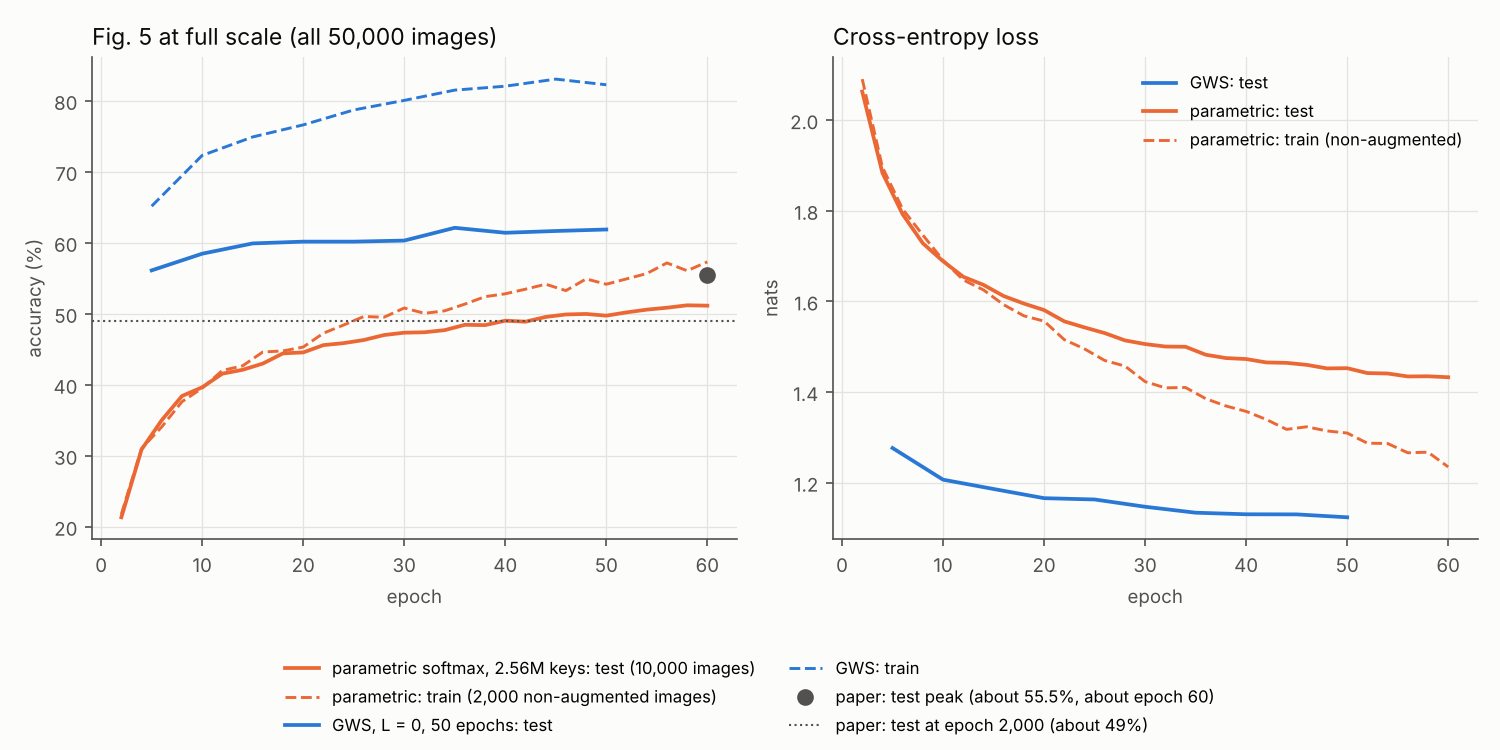
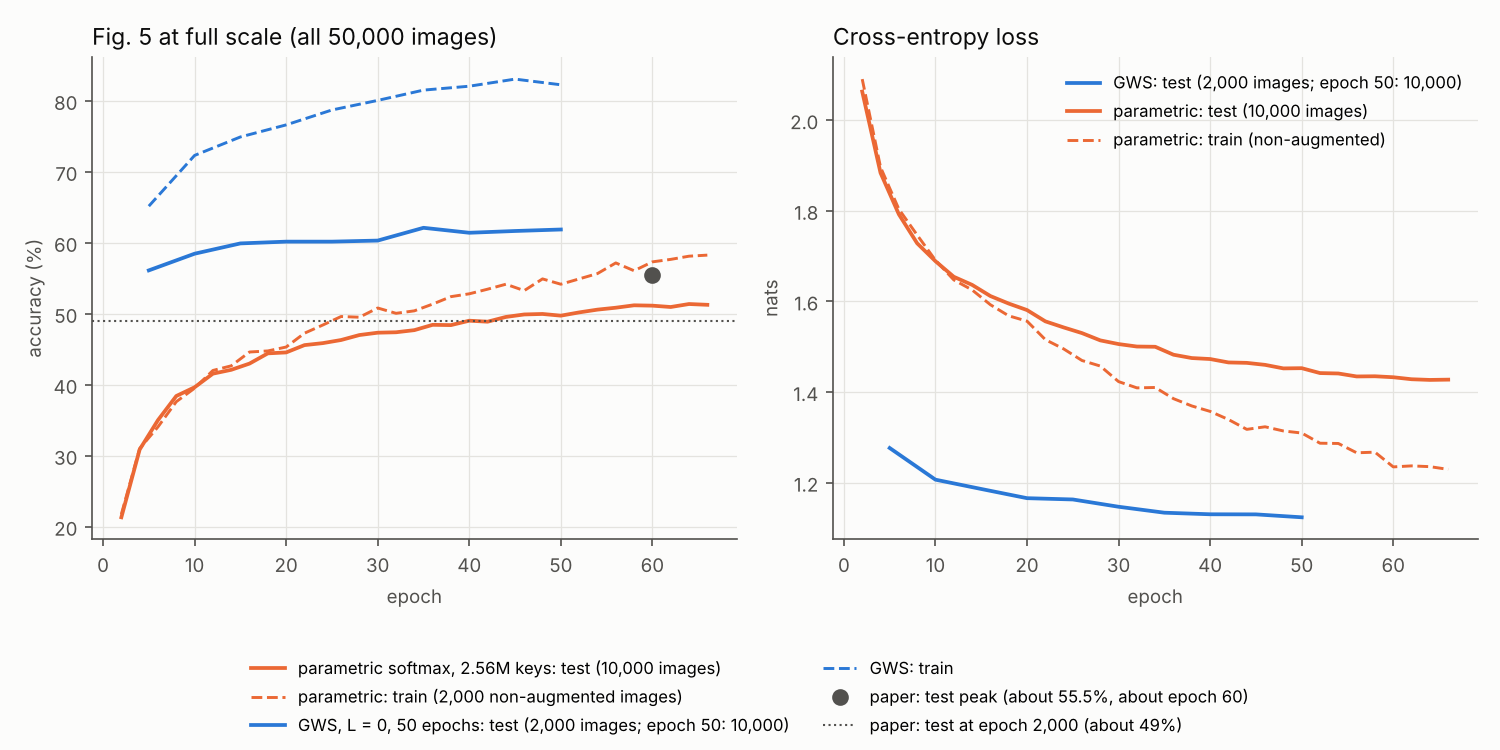
Report: apply verified fixes (evaluation sample, Muon parameter split, claim 15 with the 2.56M-key run, cost estimate with kernel padding and measured run times, rounding, labels)
Claude-Session: https://claude.ai/code/session_01RLNGfWX7myMbpBLDNmpMEp

diff --git a/experiments/plots.py b/experiments/plots.py
@@ -503,13 +503,14 @@ def fig_fig5_full(roots, out):
   if gws:   # two runs share this name (eta 1 and 0.003); section 7.2 reports the better one
     g = [e for e in max(gws, key=lambda g: g[-1]['test_acc']) if e['step'] > 0]
     xg = [e['step'] / spe for e in g]
-    axes[0].plot(xg, [100 * e['test_acc'] for e in g], '-', color=SERIES[0], linewidth=1.8, label='GWS, L = 0, 50 epochs: test')
+    axes[0].plot(xg, [100 * e['test_acc'] for e in g], '-', color=SERIES[0], linewidth=1.8, label='GWS, L = 0, 50 epochs: test (2,000 images; epoch 50: 10,000)')
     axes[0].plot(xg, [100 * e['train_acc'] for e in g], '--', color=SERIES[0], linewidth=1.4, label='GWS: train')
-    axes[1].plot(xg, [e['test_loss'] for e in g], '-', color=SERIES[0], linewidth=1.8, label='GWS: test')
+    axes[1].plot(xg, [e['test_loss'] for e in g], '-', color=SERIES[0], linewidth=1.8,
+                 label='GWS: test (2,000 images; epoch 50: 10,000)')
   axes[0].plot([60], [55.5], 'o', color=INK2, markersize=7, label='paper: test peak (about 55.5%, about epoch 60)')
   axes[0].axhline(49.0, color=INK2, linestyle=':', linewidth=1.0, label='paper: test at epoch 2,000 (about 49%)')
   style(axes[0], 'Fig. 5 at full scale (all 50,000 images)', 'epoch', 'accuracy (%)')
-  axes[1].plot(x, [e['test_loss'] for e in ev], '-', color=SERIES[1], linewidth=1.8, label='parametric: test')
+  axes[1].plot(x, [e['test_loss'] for e in ev], '-', color=SERIES[1], linewidth=1.8, label='parametric: test (10,000 images)')
   axes[1].plot(x, [e['train_loss'] for e in ev], '--', color=SERIES[1], linewidth=1.4, label='parametric: train (non-augmented)')
   style(axes[1], 'Cross-entropy loss', 'epoch', 'nats')
   axes[1].legend(fontsize=8, frameon=False)

diff --git a/rcdl/layers.py b/rcdl/layers.py
@@ -293,7 +293,8 @@ class RCDLLayer(nn.Module):
     weights = torch.zeros(n, 1, device=dev)
     if self.kind == 'parametric_softmax' and store == torch.bfloat16:
       # bf16 table (full-scale Fig. 5: 2.56M x 3072 keys), drawn in chunks straight into the device tensor so that no
-      # fp32 copy of the whole table is made; the trained parameters and their Adam moments are bf16 as well
+      # fp32 copy of the whole table is made; the trained parameters and Adam's first moment are bf16 as well (with
+      # optimizer 'adam' the second moment is fp32: rcdl/train.py AdamFP32SecondMoment)
       for i in range(0, n, 65536):
         keys[i:i + 65536] = (torch.randn(min(65536, n - i), d_in, generator=gen) / math.sqrt(d_in)).to(dev, store)
       values = (torch.randn(n, d_out, generator=gen) * 0.02).to(dev, store)

diff --git a/docs/REPRODUCTION.md b/docs/REPRODUCTION.md
@@ -10,7 +10,7 @@ Status: final. Numbers come from `results/` (not committed) and `experiments/sum
 
 ## 0. Claims and verdicts
 
-Budget: 12 GPU-hours on Colab (L4 and A100-40GB) plus a 4-core CPU; 11.87 hours were used, then 2.50 more A100-hours at the user's request to rerun work lost with the first A100 session (total 14.37). A third round, at the user's go-ahead to exceed the target, used 3.30 Colab G4 hours and a free marimo molab GPU for the claims still open (11, 15, 17, 18, 19), and 1.42 more G4 hours for a full-scale Fig. 5 attempt that stalled (§7.7). A fourth round on a free molab GPU (one 12-hour session) fixed and ran the full-scale Fig. 5 (§7.7) and ran the article's biography experiment on a small Gemma 3 style decoder (§7.5b, §7.5c); section 10 has the ledger. "Reproduced" means the same number within the stated spread, or the same qualitative result where the paper gives only a plot.
+Budget: 12 GPU-hours on Colab (L4 and A100-40GB) plus a 4-core CPU; 11.87 hours were used, then 2.50 more A100-hours at the user's request to rerun work lost with the first A100 session (total 14.37). A third round, at the user's go-ahead to exceed the target, used 3.30 Colab G4 hours and a free marimo molab GPU for the claims still open (11, 15, 17, 18, 19), and 1.42 more G4 hours for a full-scale Fig. 5 attempt that stalled (§7.7). A fourth round on free molab GPUs (a 9-minute session that molab ended, then one session of up to 12 hours) fixed the full-scale Fig. 5 and ran its first epochs (§7.7) and ran the article's biography experiment on a small Gemma 3 style decoder (§7.5b, §7.5c); section 10 has the ledger. "Reproduced" means the same number within the stated spread, or the same qualitative result where the paper gives only a plot.
 
 | # | Claim (source) | Verdict | Evidence |
 |---|---|---|---|
@@ -28,7 +28,7 @@ Budget: 12 GPU-hours on Colab (L4 and A100-40GB) plus a 4-core CPU; 11.87 hours 
 | 12 | Training loss falls much faster for GWS and RBF (Fig. 2 middle) | Reproduced for L = 2 (online loss 0.75 after 10 epochs; Muon 1.12, Adam 1.31) and in one pass (1.20 against Muon 1.26) | §7.4, figure |
 | 13 | Depth helps up to 2 hidden layers; temperature effect is non-monotonic (Fig. 4 left) | Reproduced. Depth: one pass 53.5 / 58.5 / 59.4, 10 epochs 58.6 / 63.8 / 65.1 for L = 0 / 1 / 2. Temperature (L = 0, 10 epochs): 53.5 / 58.6 / 51.3 for T = 3 / 10 / 30 | §5.1, §7.4 |
 | 14 | Linearizing exp after training causes a large drop (Fig. 4 right) | Reproduced: 61.9 → 15.9 (50 epochs, L = 0); 21-24% at every depth after 10 epochs | §7.2, §7.4 |
-| 15 | The parametric softmax overfits with a widening gap; GWS does not (Fig. 5) | Reproduced at 1/10 of the data with the paper's ratios (keys = GWS database size, 2,000 vs 50 epochs): the parametric model's test accuracy peaks at 43.3% (12.5% of training) and falls to 39.8% while its train accuracy rises to 93%; GWS ends at its best, 49.3%. Full scale, 50 epochs: GWS 61.9 vs 49.1. As in the paper's own figure, GWS also has a large final train-test gap; the claim holds in the sense that its test accuracy does not fall. Learned weights make the parametric model diverge (as the paper reports) | §7.7 |
+| 15 | The parametric softmax overfits with a widening gap; GWS does not (Fig. 5) | Reproduced at 1/10 of the data with the paper's ratios (keys = GWS database size, 2,000 vs 50 epochs): the parametric model's test accuracy peaks at 43.3% (12.5% of training) and falls to 39.8% while its train accuracy rises to 93%; GWS ends at its best, 49.3%. All 50,000 images with 250k keys (Adam 1e-3, below the paper's grid), 50 epochs: GWS 61.9 vs 49.1. The paper's full-scale model (2.56M keys, Adam 3e-3, one seed) reaches 51.1% test / 57.3% train at epoch 60 of 2,000 (§7.7; still running at the time of writing), below the paper's peak of about 55.5%, so overfitting at full scale is not yet shown. As in the paper's own figure, GWS also has a large final train-test gap; the claim holds in the sense that its test accuracy does not fall. Learned weights make the parametric model diverge (as the paper reports) | §7.7 |
 | 16 | ViT with GWS FFNs beats the parametric ViT after one epoch: 54.4 vs 48.4 (Sec. 5) | Reproduced: 55.24 at the first setting and 58.41 at the best of four (all four 52.5-58.4) vs 49.62 for the best standard ViT; needed an exact two-call FlashAttention form because PyTorch's fused attention backward slows 50 times at 2^21 keys | §5.3 |
 | 17 | The hybrid layer keeps accuracy with sublinear growth (Fig. 6) | Reproduced: capacities within 4 points of the paper at every τ; accuracy within 1.2 points for τ ≥ 50 with the notebook setting (two seeds at τ = 50: 56.2, 56.5). At τ = 35 the notebook setting fails (49.5, 44.3), but the paper's per-τ tuning grid (27 settings) gives 58.29% at 89.0% of the rows (three seeds of that setting: mean 58.27 ± 0.04; paper ~58.6% at ~88%) | §5.2 |
 | 18 | DeltaNet decay improves a 10-layer MLP over 2,000 epochs: 74% vs 67% (App. E.3.1) | Reproduced: λ = 1e-5 reaches 74.0% (final 73.7%) against 68.3% for plain SGD; all five decay rates of the paper's figure match it within about 1-2 points in test and train accuracy. Second seed: 73.7% against 67.5% | §7.8 |
@@ -54,7 +54,7 @@ Budget: 12 GPU-hours on Colab (L4 and A100-40GB) plus a 4-core CPU; 11.87 hours 
 | DeltaNet decay, 10-block MLP, 2,000 epochs, 5 decay rates at once | `python3 -m experiments.deltanet_long --out results/deltanet` | any GPU (3 GB) | about 2 h on an RTX PRO 6000 |
 | Fig. 5 at 1/10 scale; hybrid tuning at τ = 35 | `experiments/configs/overfit_fig5_scaled.json`, `hybrid_tau35_tuning.json` with `experiments.run` | 1 GPU (13-17 GB) | about 45 min per parametric run; 2-4 min per hybrid run |
 | All runs for the claims opened in the last round | `bash experiments/queue_open_claims.sh results/open data` | 1 GPU with 96 GB | about 4 h |
-| Synthetic biographies on the Gemma 3 style decoder (§7.5b) | `python3 -m experiments.bios experiments/configs/bios.json --only <name>` (`--set eval_seen_templates=true` adds the seen-template evaluation) | 1 GPU; growing-RBF runs need the Triton kernels | 10-20 min (GeGLU, Cos-Bochner) to 1.5-2 h (growing RBF, 2M rows) per run on an RTX PRO 6000 |
+| Synthetic biographies on the Gemma 3 style decoder (§7.5b) | `python3 -m experiments.bios experiments/configs/bios.json --only <name>` (`--set eval_seen_templates=true` adds the seen-template evaluation) | 1 GPU; growing-RBF runs need the Triton kernels | 10-20 min (GeGLU, Cos-Bochner) to 1-1.6 h (growing RBF, 2M rows, 6,000 pre-training steps; fine-tuning adds up to 0.2 h) per run on an RTX PRO 6000 shared with other jobs |
 | Fig. 5 at full scale (2.56M trained keys, bf16 table, fp32 Adam second moment, stochastic rounding) | `python3 -m experiments.run experiments/configs/overfit_fig5_fullscale.json --run-set eval_every=1562 eval_subset=10000 --set bf16_stochastic_rounding=true --tag sr` | 1 GPU with 96 GB (82 GB used) | 145 ms per step alone: 113 s per epoch |
 | Figures | `python3 -m experiments.plots` | any | seconds |
 
@@ -534,7 +534,7 @@ Findings:
 - The write-rate confound named in §7.5b does not explain the fast learning of new facts: with η scaled like the optimizer rate, the growing layer still reaches 96.6% at step 75 and 98.8% at step 100 (GeGLU: 99.8% at steps 500-525), and keeps the same share of old facts (89.0% against 88.8%). A likely reason is that every exposure of a new individual adds rows, so even small rows add up within a few exposures (about 6 by step 75); not tested.
 - The pre-training dips replicate (seed 2: 58.7% at step 1,100), and the seen-template and held-out accuracy differ by at most 5.2 points, so the growing layer's facts depend little on wording.
 
-**Muon** (Muon on every weight matrix except the tied embedding, AdamW 4e-4 on the embedding and the norm scales, the same cosine schedule; N = 8,192; one seed each; rates 1e-3 and 1e-2 chosen on the evaluation set; seen-template evaluation on):
+**Muon** (Muon on every weight matrix except the tied embedding, AdamW 4e-4 on the embedding, the norm scales and (Cos-Bochner) the phase offsets b; Ω, a matrix, is under Muon; the same cosine schedule; N = 8,192; one seed each; rates 1e-3 and 1e-2 chosen on the evaluation set; seen-template evaluation on):
 
 | FFN + optimizer | Plateau (reached → end) | 50% / 90% acc (step) | Final held-out / seen (%) | Training loss |
 |---|---|---|---|---|
@@ -554,7 +554,7 @@ Findings:
 - This bears on the article's claim that Cos-Bochner approaches the growing RBF layer: with Muon it does, at width 4,096 already.
 - Open: the growing layer with Muon on its other layers, and fine-tuning under Muon (runs G below). The Muon rate grid had two points and was chosen on the evaluation set; one seed each.
 
-**Fine-tuning under Muon** (runs G; pre-training as in the Muon 1e-2 runs above; fine-tuning on 1,024 new individuals for 1,000 steps, batch 16, no replay, every rate at 0.075 of its pre-training peak as in §7.5b: Muon 7.5e-4, AdamW 3e-5; N = 8,192; one seed each). Old facts are the 8,192 pre-training individuals (held-out frames); new facts are the 1,024 new individuals.
+**Fine-tuning under Muon** (runs G; pre-training as in the Muon 1e-2 runs above; fine-tuning on 1,024 new individuals for 1,000 steps, batch 16, no replay, every rate at 0.075 of its pre-training peak as in §7.5b: Muon 7.5e-4, AdamW 3e-5; N = 8,192; one seed each). Old facts are measured on 1,024 of the 8,192 pre-training individuals (the fixed random sample used throughout §7.5b, held-out frames); new facts on all 1,024 new individuals (held-out frames).
 
 | Run | Old facts at fine-tuning step 0 / 25 / 50 / 75 / 100 / 250 / 500 / 1,000 (%) | New facts at step 25 / 75 / 100 / 150 / 250 (%) |
 |---|---|---|
@@ -599,14 +599,14 @@ Findings:
 - GWS reaches higher test accuracy (48.8% against 40.8%), as in the paper, and the parametric baseline is "slower to fit the training data", as the paper says.
 - The paper's other statement does not hold here: GWS has by far the larger train-test gap (48 points against 7), and its gap widens. GWS memorizes the training set (97%) while its test accuracy keeps rising slowly. The parametric softmax shows only a small widening gap. At this scale, the difference between the two models is how fast they fit, not whether they overfit.
 - The instability of learned weights reproduces.
-- Full scale (all 50,000 images, 250,000 trained keys, plain softmax, Adam 1e-3, T = 1, 50 epochs, A100, 33 min):
+- All data, 250,000 trained keys (all 50,000 images, plain softmax, Adam 1e-3, T = 1, 50 epochs, A100, 33 min; test accuracy on the first 2,000 test images before epoch 50, all 10,000 at epoch 50):
 
 | Epoch | 5 | 10 | 20 | 30 | 40 | 50 |
 |---|---|---|---|---|---|---|
 | Parametric softmax: test / train acc (%) | 37.2 / 37.1 | 41.5 / 41.1 | 44.4 / 45.8 | 46.1 / 48.9 | 46.8 / 51.3 | **49.1 / 52.3** |
 | GWS, L = 0 (section 7.2): test / train acc (%) | 56.1 / 65.2 | 58.5 / 72.3 | 60.2 / 76.6 | 60.3 / 80.1 | 61.4 / 82.1 | **61.9 / 82.3** |
 
-  At 50 epochs the parametric model is still underfitting (train 52%) and its test accuracy is still rising; the gap is 3 points. The paper's widening gap appears after much longer training (2,000 epochs, 40 times this run, about 22 A100-hours at this table size). GWS is 12.8 points ahead on test accuracy and fits much faster, as claimed; its own gap (20 points) is larger, as is the gap in the paper's own figure (about 26 points).
+  At 50 epochs the parametric model is still underfitting (train 52%) and its test accuracy is still rising; the gap is 3 points. In the paper's figure the test accuracy peaks near epoch 60 (3% of training) at about 55.5%, so the paper's gap starts to widen soon after this run's last epoch. This run is about 6 points below the paper's curve at epoch 50 (49.1%), so it fits more slowly than the paper's model; the missing widening gap is not only a matter of run length. The 2,000 epochs at this table size would take about 22 A100-hours. GWS is 12.8 points ahead on test accuracy and fits much faster, as claimed; its own gap (20 points) is larger, as is the gap in the paper's own figure (about 26 points).
 
 **Fig. 5 with the paper's ratios at 1/10 of the data (third round, `overfit_fig5_scaled.json`).** The paper's full-scale parametric model (2.56M trained keys of width 3,072) needs about 126 GB for parameters, gradients and Adam state. This version keeps the paper's two ratios on the first 5,000 training images: the parametric softmax has as many trained keys as the GWS database holds after 50 epochs (249,664, about 50 per image, as in the paper), and it trains for 2,000 epochs against 50 for GWS. Plain softmax (fixed equal weights), T = 1, Adam 3e-3 and 1e-2 (the two lowest rates of the paper's grid), batch 64, augmentation. Train accuracy on 2,000 non-augmented training images, test accuracy on 2,000 test images (final row: all 10,000). Colab G4, 97 minutes.
 
@@ -631,20 +631,20 @@ Findings:
 | bf16 parameters, bf16 m, fp32 v, round to nearest | 38.35 | 1.776 |
 | bf16 parameters, bf16 m, fp32 v, stochastic rounding | **43.96** | **1.616** |
 
-  Round to nearest costs 4.6 points after 5 epochs; stochastic rounding matches fp32 (one seed each; the 1-point difference is inside the seed spread of these runs). The full-scale run uses stochastic rounding.
+  Round to nearest costs 4.6 points after 5 epochs; stochastic rounding is level with fp32 (43.96% against 42.95%; one seed each, so the 1-point difference was not compared with the seed-to-seed spread). The full-scale run uses stochastic rounding.
 
 **Full-scale run (fourth round; molab RTX PRO 6000, one seed).** The paper's setting: 2,560,000 trained keys of width 3,072 with 10-dimensional values, all 50,000 training images with augmentation, plain softmax (fixed equal weights), T = 1, Adam 3e-3 (the lowest rate of the paper's grid), batch 64. bf16 keys, values and first moment with stochastic rounding, fp32 second moment. Every 2 epochs: test accuracy on all 10,000 test images, train accuracy on the first 2,000 training images without augmentation. One epoch takes 113-115 s with the GPU alone and about 240 s while a biography run shares it. At the time of writing the run is at epoch 60 and still running; the paper trains 2,000 epochs. Figure: `docs/figures/fig5_fullscale.png` (GWS at L = 0 from §7.2 for comparison; its test accuracy uses 2,000 test images before the last evaluation).
 
 | Epoch | 10 | 20 | 30 | 40 | 50 | 60 |
 |---|---|---|---|---|---|---|
 | Parametric softmax, 2.56M keys: test / train acc (%) | 39.6 / 39.5 | 44.5 / 45.3 | 47.3 / 50.8 | 49.0 / 52.8 | 49.7 / 54.1 | **51.1** / 57.3 |
-| Test / train loss | 1.69 / 1.69 | 1.58 / 1.56 | 1.51 / 1.42 | 1.47 / 1.36 | 1.45 / 1.31 | 1.43 / 1.24 |
-| 250k keys, fp32, Adam 1e-3 (above): test / train acc (%) | 41.5 / 41.1 | 44.4 / 45.8 | 46.1 / 48.9 | 46.8 / 51.3 | 49.1 / 52.3 | |
+| Test / train loss | 1.69 / 1.69 | 1.58 / 1.56 | 1.51 / 1.42 | 1.47 / 1.36 | 1.45 / 1.31 | 1.43 / 1.23 |
+| 250k keys, fp32, Adam 1e-3 (above; test acc on 2,000 test images before epoch 50): test / train acc (%) | 41.5 / 41.1 | 44.4 / 45.8 | 46.1 / 48.9 | 46.8 / 51.3 | 49.1 / 52.3 | |
 
 Interim findings (epoch 60):
 - The fixed optimizer state trains: 51.1% test accuracy at epoch 60, against 27% for the stalled bf16 run (§7.7 above).
 - The paper's test peak (about 55.5% near epoch 60) is not reached by epoch 60: test accuracy is 4.4 points lower and still rising, and the test loss is still falling. The train-test gap is 6.2 points and widens slowly (about 0 at epoch 10, 3.5 at epoch 30).
-- Possible reasons, not tested: the paper's figure may use a different rate from its grid; the bf16 table with stochastic rounding matched fp32 only in a 5-epoch check at 1/10 of the keys; one seed.
+- Possible reasons, not tested: the paper's figure may use a different rate from its grid; the bf16 table with stochastic rounding matched fp32 only in a 5-epoch check at 1/10 of the keys, one seed per setting; one seed.
 
 ### 7.8 SGD with DeltaNet-like decay, 10-block MLP, 2,000 epochs (paper App. E.3.1, claim 18)
 
@@ -811,7 +811,7 @@ Not attempted after the first two rounds, and done in the third round: the 2,000
 
 Still not attempted, with cost estimates:
 - The full 2,000 epochs of the full-scale parametric softmax of Fig. 5 (2.56M trained keys of width 3,072). The fourth round ran the full-scale model with a fused Adam step (fp32 second moment, bf16 parameters and first moment with stochastic rounding, 78.6 GB of state) for at least 60 epochs (still running at the time of writing) in one free molab session (§7.7). At 113 s per epoch alone, 2,000 epochs need about 63 GPU-hours more. Claim 15 rests on the 1/10-scale run with the paper's ratios (§7.7) and on the start of the full-scale run.
-- The article's biography task at the article's scale. The article publishes no code or configuration. The fourth round used a 6.13M-parameter decoder with the Gemma 3 layer layout, trained from scratch (§7.5b, §7.5c). A pre-trained Gemma 3 checkpoint, larger models and more than 16,384 individuals were not tried. Cost estimate (not measured): the body of Gemma 3 270M (18 layers, width 640, about 100M parameters without the embedding) with this task's small vocabulary needs about 6 × 10⁸ × 1.97 × 10⁸ ≈ 1.2 × 10¹⁷ FLOPs for 6,000 steps of 64 × 512 tokens. At 50-100 TFLOPS sustained in bf16 that is 20-40 minutes per GeGLU or Cos-Bochner run on one RTX PRO 6000. The growing RBF read scales with the width, so a 2M-row run at width 640 costs about 2.5 times the 1.5-2 hours measured at width 256.
+- The article's biography task at the article's scale. The article publishes no code or configuration. The fourth round used a 6.13M-parameter decoder with the Gemma 3 layer layout, trained from scratch (§7.5b, §7.5c). A pre-trained Gemma 3 checkpoint, larger models and more than 16,384 individuals were not tried. Cost estimate (not measured): the body of Gemma 3 270M (18 layers, width 640, GeGLU width 2,048, about 100M parameters without the embedding) with this task's small vocabulary needs about 6 × 10⁸ × 1.97 × 10⁸ ≈ 1.2 × 10¹⁷ FLOPs for 6,000 steps of 64 × 512 tokens (the 6ND rule; attention scores at length 512 add a few percent). At 50-100 TFLOPS sustained in bf16 that is 20-40 minutes per GeGLU run on one RTX PRO 6000. A Cos-Bochner FFN with trained Ω has 2 × 640 × D parameters per layer, so the body is about 124M at D = 4,096 (25-50 minutes) and about 407M at D = 16,384 (1.4-2.7 hours). The growing RBF read costs rows × width per routed token, 2.5 times more at width 640 than at 256. The current fused kernel (`rcdl/rbf_triton.py`) pads the width to the next power of two (1,024 for 640, 4 times 256), and its launch settings were tuned at width 256, so a width-640 run first needs a kernel that loops over the width in fixed chunks. With such a kernel, a 2M-row run would take about 2.5 times the 1-1.6 hours measured at width 256 on a shared GPU.
 
 Third-round efficiency (one 96 GB GPU per machine, two to four job streams each):
 
@@ -829,7 +829,7 @@ Fourth-round efficiency:
 | Fused Triton Adam step with fp32 second moment and optional stochastic rounding (`rcdl/triton_adam.py`) | 18 bytes per element per step and no temporaries, so the 2.56M-key table (78.6 GB of state) fits on one 96 GB GPU; 145 ms per step alone |
 | Fused Triton RBF read and query gradient (`rcdl/rbf_triton.py`) | 412 ms against 1,772 ms per step for the chunked PyTorch path at 4M rows (4.3 times); 4 warps instead of 8 another 17% (no duplicated MMA tiles) |
 | Fine-tuning branches from one pre-trained state (`finetune_variants`) | two fine-tuning conditions for the cost of one pre-training run |
-| Results copied every 20 minutes and uploaded to a private Hugging Face dataset | nothing lost when a molab sandbox ends |
+| Results copied every 20 minutes and uploaded to a private Hugging Face dataset | finished results and logs survive the end of a sandbox up to the last copy (at most 20 minutes lost); runs in progress stop and cannot resume, because no checkpoints are written (the 256k-key rounding check was lost with molab-2) |
 
 GPU efficiency work on the second A100 session (prompted by the question whether the GPU time was used well; measured on the A100):
 
